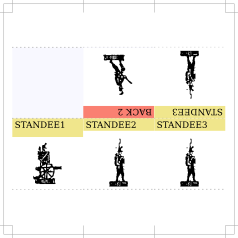
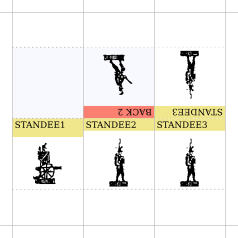
Standee doc images with better registration marks

Changed region(s): [[0.0, 0.0, 1.0, 1.0]]

diff --git a/svgtests/run.py b/svgtests/run.py
@@ -97,7 +97,7 @@ tests = [
                                                    '-O' : '0'}],
     ['nato_counters.csv', 'template-counters.svg'],
     ['nato_counters_2_sides.csv', 'template-counters.svg'],
-    ['standees.csv', 'standees.svg'],
+    ['standees.csv', 'standees.svg', {'-R' : 'true', '-O' : '0'}],
     ['image_counters.csv', 'template-counters.svg'],
 ]
 
